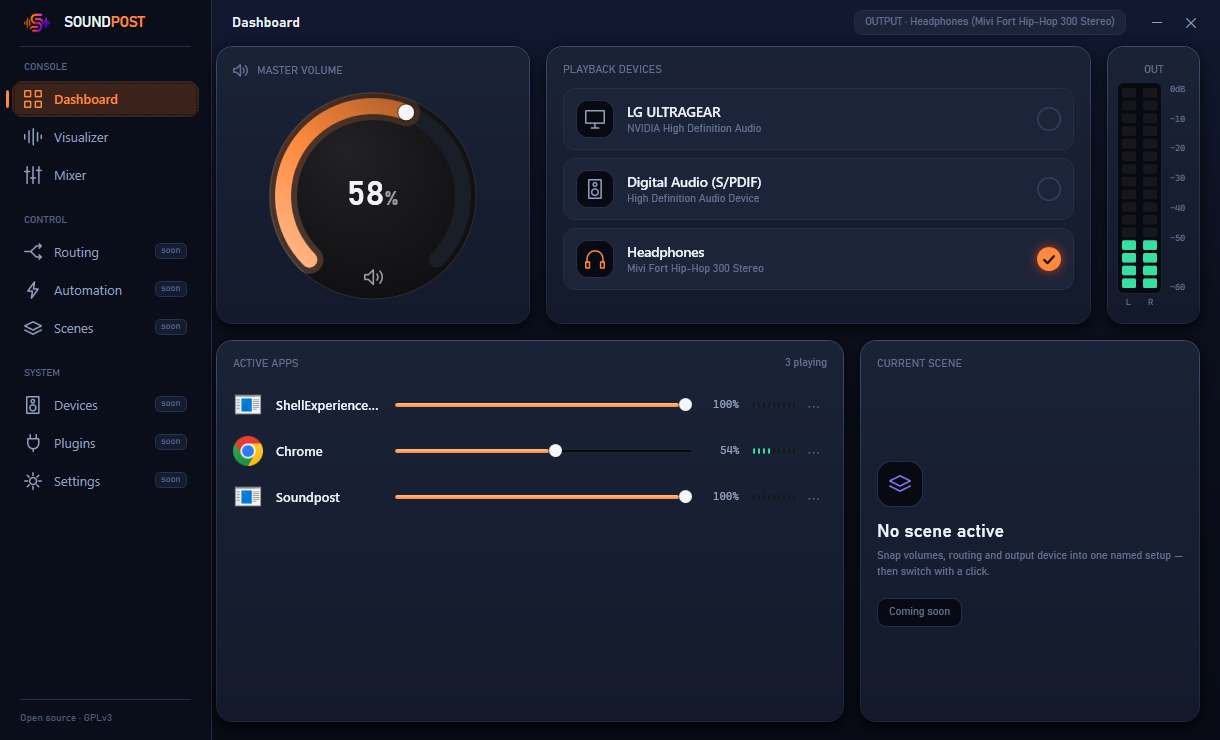
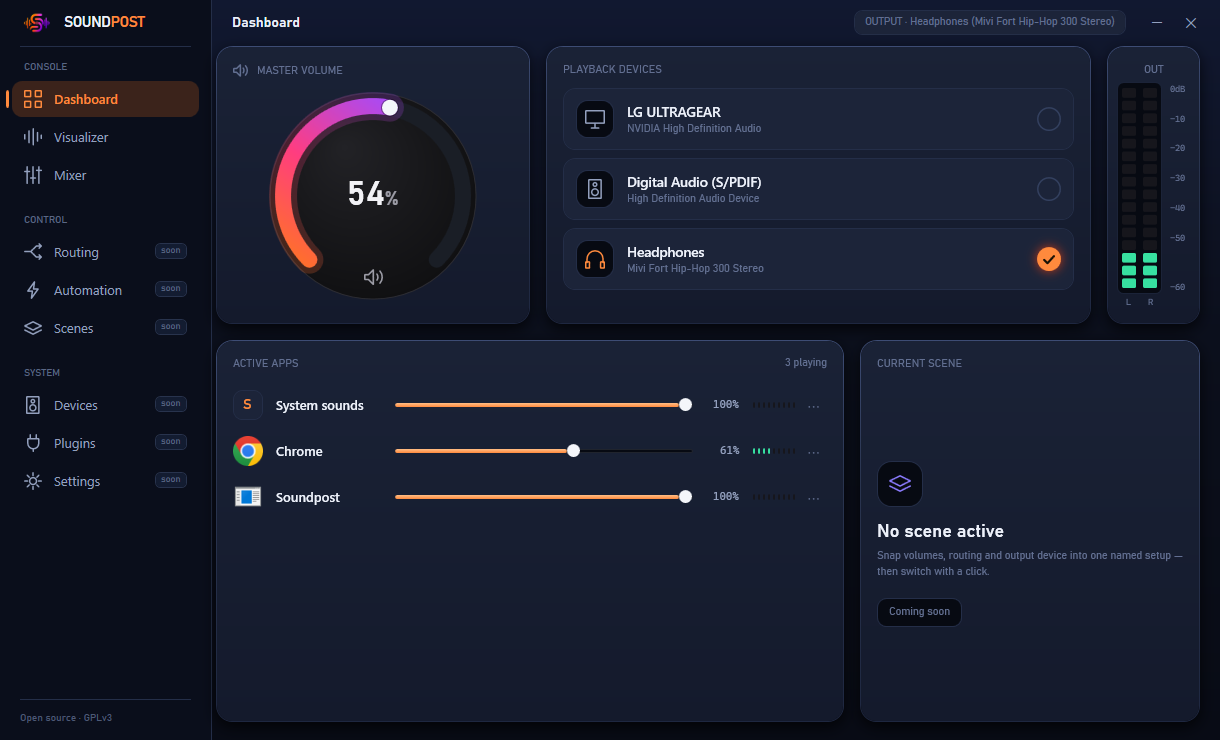
docs: add the Spectrum visualizer GIF; refresh dashboard and themes shots
Adds a live Spectrum-style visualizer GIF to "See it". Refreshes the
dashboard hero and the four-theme showcase to show the restored Indigo
dial. Drops the old, unused visualizer GIF.

diff --git a/README.md b/README.md
@@ -43,6 +43,12 @@ Windows scatters your audio across a volume flyout, a device menu, a sound contr
 
 <div align="center">
 
+<img src="assets/media/spectrum.gif" alt="The Soundpost visualizer reacting to live audio in the Spectrum style" width="880" />
+
+<sub><b>The visualizer.</b> Seven styles react to your audio at 60 fps — here, Spectrum. Pop it fullscreen over a music video, or keep it in the console.</sub>
+
+<br/><br/>
+
 <img src="assets/media/themes.png" alt="Soundpost in all four themes: Indigo, Black and Red, Rich Gold, and Cherry Blossom" width="880" />
 
 <sub><b>Four themes, switched live.</b> Indigo, Black &amp; Red, Rich Gold, Cherry Blossom.</sub>
